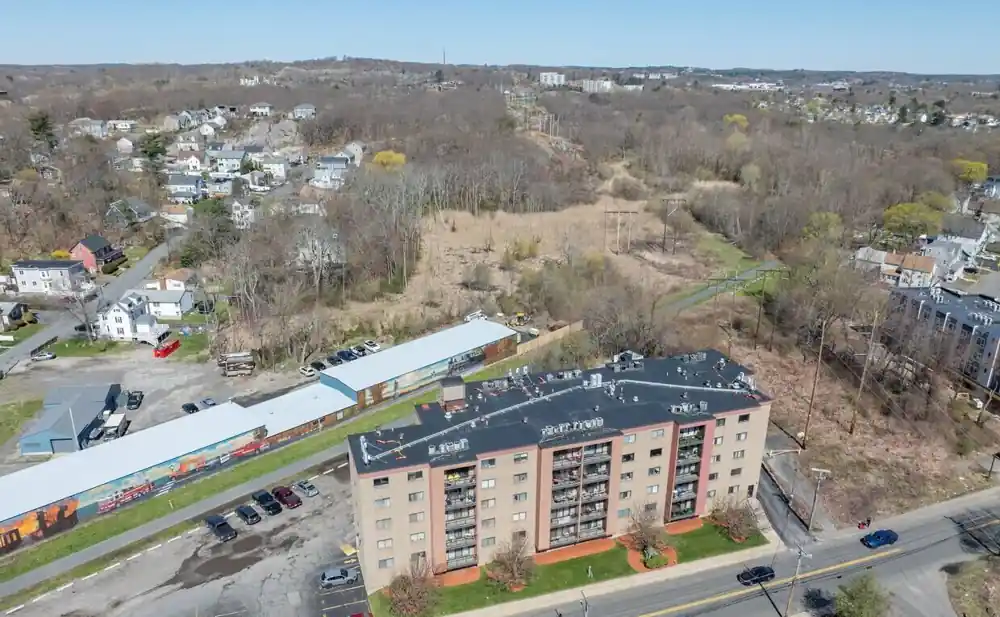
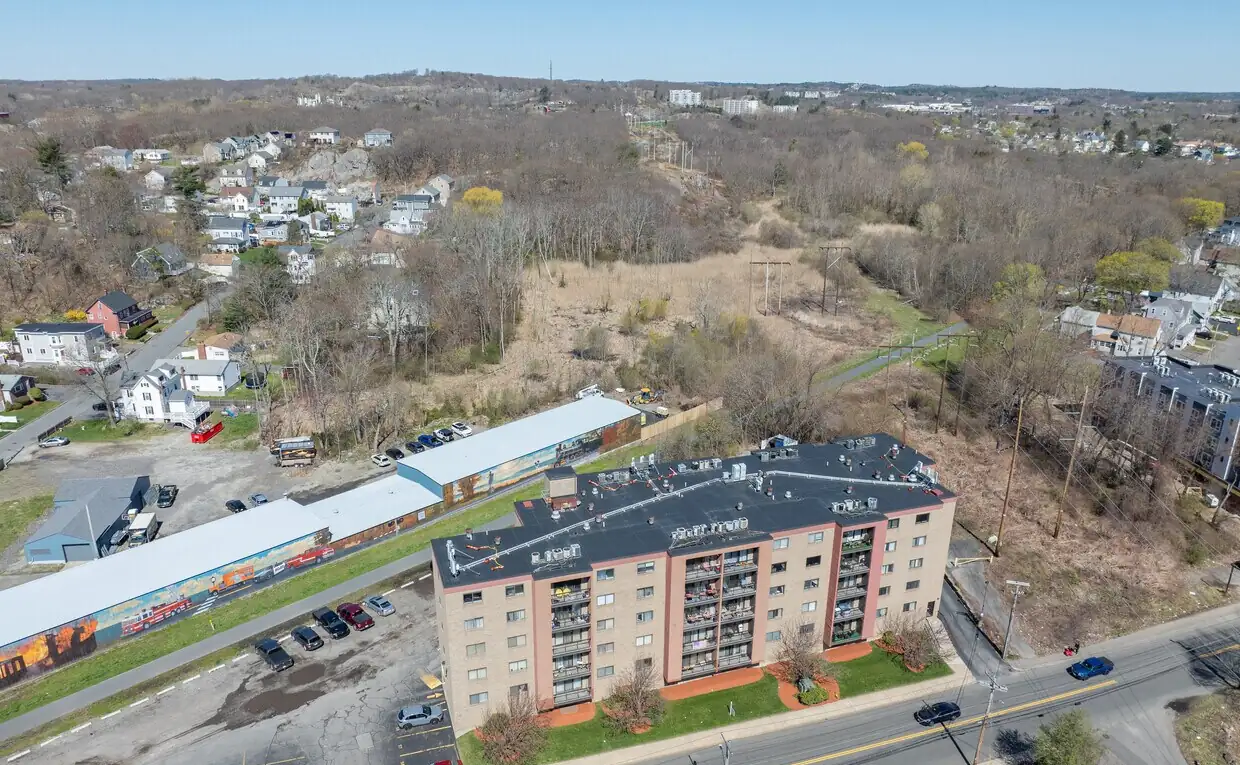
New hero photo; move aerial to Rail Trail section

diff --git a/index.html b/index.html
@@ -25,10 +25,11 @@ header.nav .wrap{display:flex;align-items:center;justify-content:space-between;h
 nav a{color:var(--ink);text-decoration:none;font-size:.92rem;margin-left:22px;font-weight:500}
 nav a:hover{color:var(--brand)}
 @media(max-width:760px){nav{display:none}}
-.hero{position:relative;min-height:78vh;display:flex;align-items:flex-end;color:#fff;background:#2f5d50 url("aerial.webp") center 40%/cover no-repeat}
-.hero::before{content:"";position:absolute;inset:0;background:linear-gradient(180deg,rgba(0,0,0,.05) 30%,rgba(10,25,20,.78))}
-.hero .wrap{position:relative;padding-bottom:64px;padding-top:120px}
-.hero h1{font-size:clamp(2.4rem,6vw,4.2rem);max-width:760px}
+.hero{color:#fff;background:var(--brand);padding:64px 0}
+.hero .wrap{display:grid;grid-template-columns:1fr 1.15fr;gap:44px;align-items:center}
+.hero-img{width:100%;aspect-ratio:3/2;object-fit:cover;border-radius:18px;box-shadow:0 18px 40px rgba(0,0,0,.25)}
+@media(max-width:860px){.hero .wrap{grid-template-columns:1fr}.hero{padding:40px 0}}
+.hero h1{font-size:clamp(2.2rem,4.6vw,3.6rem)}
 .hero p{font-size:clamp(1.05rem,2vw,1.25rem);max-width:620px;margin-top:14px;opacity:.95}
 .btns{margin-top:26px;display:flex;gap:12px;flex-wrap:wrap}
 .btn{display:inline-block;padding:12px 22px;border-radius:999px;font-weight:600;text-decoration:none;font-size:.95rem}
@@ -81,10 +82,13 @@ footer .wrap{display:flex;justify-content:space-between;flex-wrap:wrap;gap:12px}
 </div></header>
 
 <section class="hero"><div class="wrap">
+<div>
 <div class="eyebrow" style="color:#f3d2b8">292 Salem Street &middot; Revere, Massachusetts</div>
 <h1>Easy living on the edge of the trail.</h1>
 <p>Salem Place is a five-story elevator condominium with balconies, deeded parking and the Northern Strand rail trail right next door, minutes from Route 1, the T, Revere Beach and Boston.</p>
 <div class="btns"><a class="btn solid" href="#about">Explore Salem Place</a><a class="btn ghost" href="#location">See the location</a></div>
+</div>
+<img class="hero-img" src="hero.webp" alt="Salem Place, a five-story brick condominium building, under a blue sky">
 </div></section>
 
 <section id="about"><div class="wrap">
@@ -128,7 +132,7 @@ footer .wrap{display:flex;justify-content:space-between;flex-wrap:wrap;gap:12px}
 <p class="lead">Step outside and you're on the Northern Strand, a paved rail trail of about 10 miles linking Everett, Malden, Revere, Saugus and Lynn. Walk, run or bike through wooded marshland, ride toward Lynn and the ocean, or head the other way toward the Mystic River and Boston's path network.</p>
 <div class="btns"><a class="btn" style="background:var(--brand);color:#fff" href="https://biketothesea.org/" target="_blank" rel="noopener">Northern Strand Trail website</a><a class="btn" style="border:1.5px solid var(--brand);color:var(--brand)" href="https://biketothesea.org/map/" target="_blank" rel="noopener">Trail map</a></div>
 </div>
-<div class="card"><img class="photo" src="trail.webp" alt="Salem Place from the Northern Strand rail trail, with resident parking"><div class="body"><h3>Walk, run, bike</h3><p>The trail runs right along the back of the property. Car-free miles, steps from your door.</p></div></div>
+<div class="card"><img class="photo" src="aerial.webp" alt="Aerial view of Salem Place with the Northern Strand trail corridor behind it" style="object-position:center 100%"><div class="body"><h3>Walk, run, bike</h3><p>The trail runs right along the back of the property. Car-free miles, steps from your door.</p></div></div>
 </div></section>
 
 <section id="location" class="alt"><div class="wrap split">
